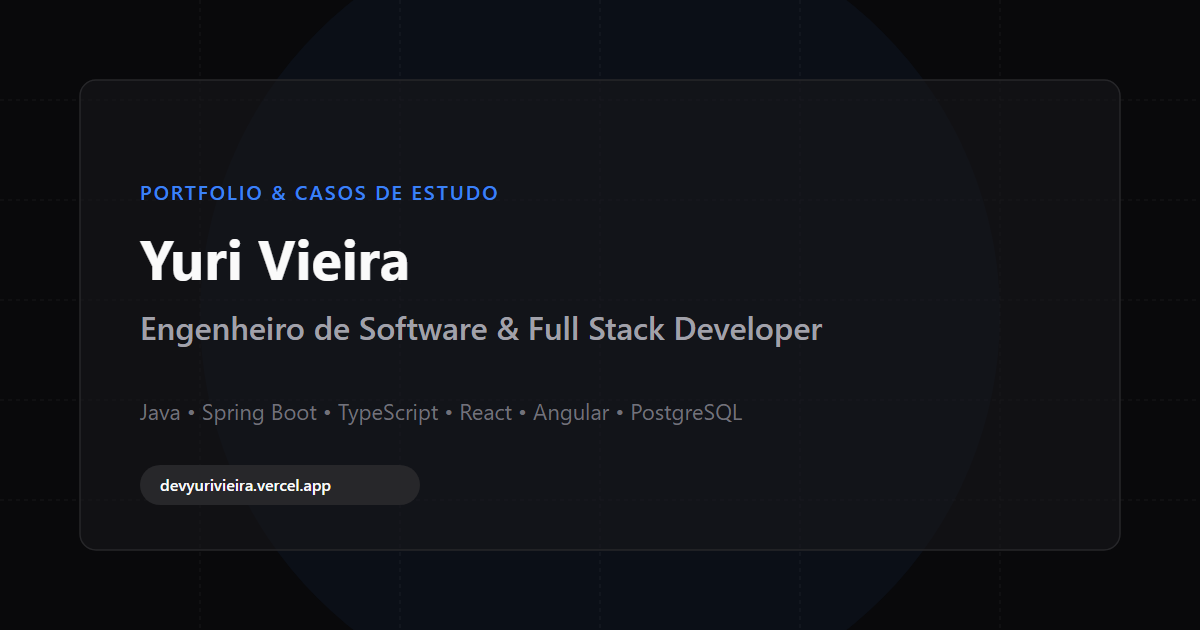
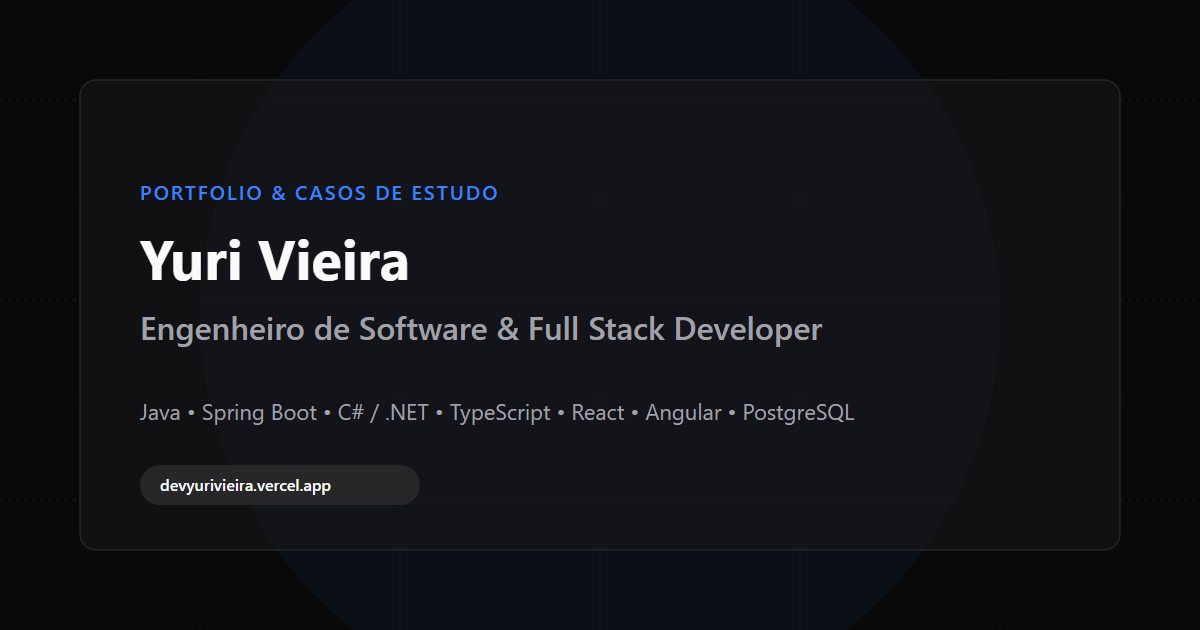
chore(seo,docs,e2e): align metadata, OG assets, visual snapshots and CI pipeline

Changed region(s): [[0.1233, 0.6333, 0.7092, 0.6937]]

diff --git a/e2e/portfolio.spec.ts b/e2e/portfolio.spec.ts
@@ -4,7 +4,7 @@ import AxeBuilder from '@axe-core/playwright';
 test.describe('Yuri Vieira Portfolio - Comprehensive E2E Test Suite', () => {
 
   test.beforeEach(async ({ page }) => {
-    await page.goto('/');
+    await page.goto('/?lang=pt-BR');
   });
 
   test.describe('1. SEO Metadata, Open Graph & Structured Data', () => {
@@ -111,7 +111,8 @@ test.describe('Yuri Vieira Portfolio - Comprehensive E2E Test Suite', () => {
 
   test.describe('4. Projects Section & Confidential Case Study', () => {
     test('should handle progressive project expansion and collapse (5 -> 7 -> Total -> 5)', async ({ page }) => {
-      const projectsSection = page.locator('#projects');
+      const projectsSection = page.locator('app-projects #projects');
+      await expect(projectsSection).toBeAttached({ timeout: 10000 });
       await projectsSection.scrollIntoViewIfNeeded();
 
       const projectCards = page.locator('#projects .projects__card');
@@ -132,7 +133,8 @@ test.describe('Yuri Vieira Portfolio - Comprehensive E2E Test Suite', () => {
     });
 
     test('should render ZEISS confidential project card with lock badge and NDA disclaimer', async ({ page }) => {
-      const projectsSection = page.locator('#projects');
+      const projectsSection = page.locator('app-projects #projects');
+      await expect(projectsSection).toBeAttached({ timeout: 10000 });
       await projectsSection.scrollIntoViewIfNeeded();
 
       const confidentialCard = page.locator('.projects__card--confidential');
@@ -144,6 +146,21 @@ test.describe('Yuri Vieira Portfolio - Comprehensive E2E Test Suite', () => {
 
       const ndaText = confidentialCard.locator('.projects__confidential-text');
       await expect(ndaText).toHaveText(/NDA|Serratec/i);
+    });
+
+    test('should filter projects by engineering track and support direct case-study deep links', async ({ page }) => {
+      const projectsSection = page.locator('app-projects #projects');
+      await expect(projectsSection).toBeAttached({ timeout: 10000 });
+      await projectsSection.scrollIntoViewIfNeeded();
+
+      const backendFilter = page.locator('#projects .projects__filter-btn').nth(2);
+      await backendFilter.click();
+      await expect(page.locator('#projects .projects__card')).toHaveCount(4);
+
+      await page.goto('/projects/fleetops-api?lang=en');
+      const modal = page.locator('app-case-study-modal .case-modal');
+      await expect(modal).toBeVisible({ timeout: 10000 });
+      await expect(modal.locator('.case-modal__title')).toContainText('FleetOps API');
     });
   });
 
@@ -166,7 +183,9 @@ test.describe('Yuri Vieira Portfolio - Comprehensive E2E Test Suite', () => {
       await expect(page.locator('#experience')).toBeAttached();
       await page.evaluate(() => document.getElementById('experience')?.scrollIntoView({ behavior: 'instant' }));
 
-      const focusCards = page.locator('#experience .experience__focus-card');
+      const focusCards = page.locator('app-experience #experience .experience__focus-card');
+      await expect(focusCards.first()).toBeAttached({ timeout: 10000 });
+      await focusCards.first().scrollIntoViewIfNeeded();
       await expect(focusCards.first()).toBeVisible({ timeout: 10000 });
       const count = await focusCards.count();
       expect(count).toBeGreaterThanOrEqual(4);
@@ -185,11 +204,12 @@ test.describe('Yuri Vieira Portfolio - Comprehensive E2E Test Suite', () => {
 
   test.describe('6. AI Experience Section & Interactive Controls', () => {
     test('should render AI manifesto, feature cards and zoom toolbar (on desktop)', async ({ page, isMobile }) => {
-      const aiSection = page.locator('#ai-experience');
-      await aiSection.scrollIntoViewIfNeeded();
+      const aiSection = page.locator('app-ai-experience #ai-experience');
+      await expect(aiSection).toBeAttached({ timeout: 10000 });
 
       const badge = page.locator('#ai-experience .ai__badge');
-      await expect(badge).toBeVisible();
+      await badge.scrollIntoViewIfNeeded();
+      await expect(badge).toBeVisible({ timeout: 10000 });
 
       const featureCards = page.locator('#ai-experience .ai__feature-card');
       const count = await featureCards.count();
@@ -197,6 +217,7 @@ test.describe('Yuri Vieira Portfolio - Comprehensive E2E Test Suite', () => {
 
       if (!isMobile) {
         const zoomToolbar = page.locator('#ai-experience .ai__zoom-toolbar');
+        await zoomToolbar.scrollIntoViewIfNeeded();
         await expect(zoomToolbar).toBeVisible();
 
         const zoomButtons = zoomToolbar.locator('button');
@@ -210,7 +231,9 @@ test.describe('Yuri Vieira Portfolio - Comprehensive E2E Test Suite', () => {
     test('should handle copy email action with visual state feedback', async ({ page, context }) => {
       await context.grantPermissions(['clipboard-read', 'clipboard-write'], { origin: 'http://localhost:4200' });
 
-      await page.locator('#contact').scrollIntoViewIfNeeded();
+      const contactSection = page.locator('app-contact #contact');
+      await expect(contactSection).toBeAttached({ timeout: 10000 });
+      await contactSection.scrollIntoViewIfNeeded();
 
       const copyBtnHost = page.locator('#contact app-button').nth(1);
       const copyButton = copyBtnHost.locator('button');
@@ -221,7 +244,8 @@ test.describe('Yuri Vieira Portfolio - Comprehensive E2E Test Suite', () => {
     });
 
     test('should render direct send email action button', async ({ page }) => {
-      const contactSection = page.locator('#contact');
+      const contactSection = page.locator('app-contact #contact');
+      await expect(contactSection).toBeAttached({ timeout: 10000 });
       await contactSection.scrollIntoViewIfNeeded();
 
       const sendBtn = page.locator('#contact app-button').nth(0).locator('a, button');

diff --git a/src/app/core/services/seo.service.ts b/src/app/core/services/seo.service.ts
@@ -23,27 +23,27 @@ const SEO_I18N: Record<string, SeoDefaults> = {
   'pt-BR': {
     title: 'Yuri Vieira | Engenheiro de Software | Full Stack Developer',
     description:
-      'Portfolio de Yuri Vieira | Engenheiro de Software & Desenvolvedor Full Stack especializado em Java, Spring Boot, TypeScript, React e Angular. Casos de estudo em arquitetura limpa, sistemas distribuídos e alta performance.',
+      'Portfolio de Yuri Vieira | Engenheiro de Software & Desenvolvedor Full Stack especializado em Java, Spring Boot, C#, .NET, TypeScript, React e Angular. Casos de estudo em arquitetura limpa, sistemas distribuídos e alta performance.',
     keywords:
-      'Yuri Vieira, Yuri Vieira Engenheiro de Software, Software Engineer, Desenvolvedor Full Stack, Java Developer, React Developer, Angular, Spring Boot, PostgreSQL, TypeScript, Portfolio',
+      'Yuri Vieira, Yuri Vieira Engenheiro de Software, Software Engineer, Desenvolvedor Full Stack, Java Developer, .NET Developer, C#, ASP.NET Core, React Developer, Angular, Spring Boot, PostgreSQL, TypeScript, Portfolio',
     ogLocale: 'pt_BR',
     htmlLang: 'pt-BR',
   },
   en: {
     title: 'Yuri Vieira | Software Engineer | Full Stack Developer',
     description:
-      "Yuri Vieira's Portfolio | Software Engineer & Full Stack Developer specialized in Java, Spring Boot, TypeScript, React, and Angular. Open to remote software engineering roles in Canada, Europe, USA, and Brazil.",
+      "Yuri Vieira's Portfolio | Software Engineer & Full Stack Developer specialized in Java, Spring Boot, C#, .NET, TypeScript, React, and Angular. Open to remote software engineering roles in Canada, Europe, USA, and Brazil.",
     keywords:
-      'Yuri Vieira, Software Engineer, Full Stack Developer, Java Developer, Spring Boot, React Developer, Angular, TypeScript, PostgreSQL, Remote Software Engineer, Remote Developer Canada, Remote Developer Europe, B2B Contractor, Back-End Instructor, Portfolio',
+      'Yuri Vieira, Software Engineer, Full Stack Developer, Java Developer, Spring Boot, .NET Developer, C#, ASP.NET Core, React Developer, Angular, TypeScript, PostgreSQL, Remote Software Engineer, Remote Developer Canada, Remote Developer Europe, B2B Contractor, Portfolio',
     ogLocale: 'en_US',
     htmlLang: 'en',
   },
   es: {
     title: 'Yuri Vieira | Ingeniero de Software | Desarrollador Full Stack',
     description:
-      'Portafolio de Yuri Vieira | Ingeniero de Software & Desarrollador Full Stack especializado en Java, Spring Boot, TypeScript, React y Angular. Disponible para roles remotos de ingeniería de software en Canadá, Europa, EE.UU. y Brasil.',
+      'Portafolio de Yuri Vieira | Ingeniero de Software & Desarrollador Full Stack especializado en Java, Spring Boot, C#, .NET, TypeScript, React y Angular. Disponible para roles remotos de ingeniería de software en Canadá, Europa, EE.UU. y Brasil.',
     keywords:
-      'Yuri Vieira, Ingeniero de Software, Desarrollador Full Stack, Java Developer, React Developer, Angular, Spring Boot, PostgreSQL, TypeScript, Ingeniero Remoto, Desarrollador Remoto Canadá, Desarrollador Remoto Europa, Contratista B2B, Instructor Back-End, Portafolio',
+      'Yuri Vieira, Ingeniero de Software, Desarrollador Full Stack, Java Developer, .NET Developer, C#, React Developer, Angular, Spring Boot, PostgreSQL, TypeScript, Ingeniero Remoto, Desarrollador Remoto Canadá, Desarrollador Remoto Europa, Contratista B2B, Portafolio',
     ogLocale: 'es_ES',
     htmlLang: 'es',
   },

diff --git a/src/index.html b/src/index.html
@@ -14,12 +14,11 @@
   <meta name="robots" content="index, follow, max-image-preview:large, max-snippet:-1, max-video-preview:-1">
   <link rel="canonical" href="https://devyurivieira.vercel.app/">
 
-  <link rel="alternate" hreflang="pt-BR" href="https://devyurivieira.vercel.app/">
-  <link rel="alternate" hreflang="en" href="https://devyurivieira.vercel.app/">
-  <link rel="alternate" hreflang="es" href="https://devyurivieira.vercel.app/">
+  <link rel="alternate" hreflang="pt-BR" href="https://devyurivieira.vercel.app/?lang=pt-BR">
+  <link rel="alternate" hreflang="en" href="https://devyurivieira.vercel.app/?lang=en">
+  <link rel="alternate" hreflang="es" href="https://devyurivieira.vercel.app/?lang=es">
   <link rel="alternate" hreflang="x-default" href="https://devyurivieira.vercel.app/">
 
-  <!-- Machine-Readable LLM Context (llmstxt.org specification) -->
   <link rel="help" type="text/plain" href="https://devyurivieira.vercel.app/llms.txt" title="LLMs.txt Context">
   <link rel="alternate" type="text/plain" href="https://devyurivieira.vercel.app/llms.txt" title="LLM Context">
 
@@ -80,12 +79,6 @@
           "https://linkedin.com/in/yuri-vieira-teixeira",
           "https://devyurivieira.vercel.app/"
         ],
-        "worksFor": {
-          "@type": "EducationalOrganization",
-          "name": "SENAI / FAETEC",
-          "description": "National Service for Industrial Training / Vocational Technology Education (Contrato Determinado concluído, Ago-Out 2026)",
-          "url": "https://www.firjan.com.br/senai/"
-        },
         "alumniOf": [
           {
             "@type": "CollegeOrUniversity",
@@ -179,11 +172,16 @@
           "Java",
           "Spring Boot",
           "Spring Security",
+          "C#",
+          ".NET 10",
+          "ASP.NET Core",
           "TypeScript",
           "React",
           "React Native",
           "Angular",
           "PostgreSQL",
+          "RabbitMQ",
+          "OpenTelemetry",
           "Node.js",
           "Python",
           "Django",
@@ -193,7 +191,6 @@
           "Automated Testing",
           "Vitest",
           "Playwright",
-          "Cypress",
           "Docker",
           "CI/CD"
         ]
@@ -285,7 +282,7 @@
         "author": {
           "@id": "https://devyurivieira.vercel.app/#person"
         },
-        "description": "Production portfolio engineered with Angular 22 Signals, WebGL/Three.js GPU shaders, and 213 automated tests."
+        "description": "Production portfolio engineered with Angular 22 Signals, WebGL/Three.js GPU shaders, and 160+ automated Vitest unit tests plus Playwright E2E and Axe-core WCAG audits."
       }
     ]
   }

diff --git a/src/app/layout/components/adr-modal/adr-modal.data.ts b/src/app/layout/components/adr-modal/adr-modal.data.ts
@@ -196,7 +196,7 @@ export const PORTFOLIO_ADRS_I18N: Record<SupportedLang, readonly AdrRecord[]> = 
         'Adotar o Vitest com execução ESM pura, cobrindo lógica de domínio, grafos de signals reativos, interações de acessibilidade (foco, regiões ARIA live) e catálogos de internacionalização com zero testes instáveis (flaky).',
       consequences: {
         positive: [
-          'Ciclos de execução de testes sub-segundo em mais de 80 suítes unitárias completas',
+          'Ciclos rápidos de execução em 31 suítes unitárias (168 testes automatizados)',
           'Taxa de 100% de aprovação nos testes automatizados verificada antes de qualquer deploy',
           'Isolamento estrito de APIs de navegador (PerformanceObserver, WebGL, ServiceWorker)',
           'Feedback imediato para o desenvolvedor durante pair programming local e refatoração',
@@ -348,7 +348,7 @@ export const PORTFOLIO_ADRS_I18N: Record<SupportedLang, readonly AdrRecord[]> = 
         'Enforce Vitest with pure ESM execution, covering domain logic, reactive signal graphs, accessibility interactions (keyboard traps, ARIA live regions), and internationalization catalogs with zero flaky tests.',
       consequences: {
         positive: [
-          'Sub-second test execution cycle across 80+ comprehensive unit suites',
+          'Fast feedback loop across 31 comprehensive unit test suites (168 automated tests)',
           '100% automated test pass rate verified before every deployment gate',
           'Strict isolation of browser APIs (PerformanceObserver, WebGL, ServiceWorker)',
           'Immediate developer feedback loop during local pair-programming and refactoring',
@@ -500,7 +500,7 @@ export const PORTFOLIO_ADRS_I18N: Record<SupportedLang, readonly AdrRecord[]> = 
         'Aplicar Vitest con ejecución ESM pura, cubriendo lógica de dominio, grafos de signals reactivos, interacciones de accesibilidad (foco, regiones ARIA live) e internacionalización con cero pruebas inestables.',
       consequences: {
         positive: [
-          'Ciclo de ejecución de pruebas inferior a un segundo en más de 80 suites completas',
+          'Ciclo rápido de ejecución en 31 suites unitarias completas (168 pruebas automatizadas)',
           'Tasa de aprobación del 100% en pruebas automatizadas antes de cada despliegue',
           'Aislamiento estricto de APIs de navegador (PerformanceObserver, WebGL, ServiceWorker)',
           'Feedback inmediato durante pair programming y refactorización local',

diff --git a/e2e/visual-regression.spec.ts b/e2e/visual-regression.spec.ts
@@ -3,7 +3,7 @@ import { test, expect } from '@playwright/test';
 test.describe('Visual Regression Suite: Snapshot & Pixel Comparison', () => {
 
   test.beforeEach(async ({ page }) => {
-    await page.goto('/', { waitUntil: 'networkidle' });
+    await page.goto('/?lang=pt-BR', { waitUntil: 'networkidle' });
   });
 
   test('should verify Header component visual snapshot', async ({ page }) => {

diff --git a/README.md b/README.md
@@ -7,17 +7,17 @@
 ![Three.js](https://img.shields.io/badge/Three.js-0.185-000000?style=for-the-badge&logo=three.js&logoColor=white)
 ![A11y](https://img.shields.io/badge/A11y-WCAG_AAA-00E5FF?style=for-the-badge&logo=w3c&logoColor=black)
 ![SCSS](https://img.shields.io/badge/SCSS-Design_System-CC6699?style=for-the-badge&logo=sass&logoColor=white)
-![Tests](https://img.shields.io/badge/Tests-213_Passed-10B981?style=for-the-badge&logo=vitest&logoColor=white)
-![Vitest](https://img.shields.io/badge/Vitest-158_Unit_Specs-6E9F18?style=for-the-badge&logo=vitest&logoColor=white)
+![Tests](https://img.shields.io/badge/Tests-223_Passed-10B981?style=for-the-badge&logo=vitest&logoColor=white)
+![Vitest](https://img.shields.io/badge/Vitest-168_Unit_Specs-6E9F18?style=for-the-badge&logo=vitest&logoColor=white)
 ![Playwright](https://img.shields.io/badge/Playwright-1.62-2EAD33?style=for-the-badge&logo=playwright&logoColor=white)
 ![Cypress](https://img.shields.io/badge/Cypress-15.20-17202C?style=for-the-badge&logo=cypress&logoColor=white)
 ![Vercel](https://img.shields.io/badge/Vercel-Deployed-000000?style=for-the-badge&logo=vercel&logoColor=white)
 
-**PT-BR:** Aplicação web frontend desenvolvida em Angular 22 com Signals, gráficos interativos Three.js (WebGL), Registros de Decisão de Arquitetura (ADRs), console interativo de telemetria RUM e eventos de conversão em tempo real, motor avançado de acessibilidade (WCAG 2.2 AAA & VLibras com 21 ferramentas assistivas), suporte trilíngue (i18n - PT-BR, EN, ES), SEO dinâmico e suíte de testes automatizados (158 testes Vitest).  
-*Slogan: Design system proprietário, acessibilidade universal com VLibras e 21 recursos assistivos, arquitetura documentada com ADRs, console de telemetria em tempo real e suíte de testes automatizados.*
+**PT-BR:** Aplicação web frontend desenvolvida em Angular 22 com Signals, Command Palette (`Ctrl+K`), gráficos interativos Three.js (WebGL), Registros de Decisão de Arquitetura (ADRs), inspetor de métricas RUM e Core Web Vitals, motor avançado de acessibilidade (WCAG 2.2 AAA & VLibras com 21 ferramentas assistivas), suporte trilíngue com auto-detecção de idioma (PT-BR, EN, ES), deep links `/projects/:projectId`, SEO dinâmico e suíte de testes automatizados (168 testes Vitest + Playwright + Cypress).  
+*Slogan: Design system proprietário, acessibilidade universal com VLibras e 21 recursos assistivos, arquitetura documentada com ADRs, Command Palette `Ctrl+K`, telemetria RUM nativa e suíte de testes automatizados.*
 
-**EN:** Frontend web application built with Angular 22 Signals, Three.js (WebGL) interactive visuals, Architectural Decision Records (ADRs), interactive live RUM & event tracking telemetry HUD, universal accessibility engine (WCAG 2.2 AAA & VLibras with 21 assistive features), dynamic tri-lingual i18n (PT-BR, EN, ES), SEO engine, and automated testing suite (158 Vitest tests).  
-*Slogan: Custom design system, universal accessibility with VLibras and 21 assistive features, documented architecture with ADRs, real-time telemetry HUD console, and automated testing pipeline.*
+**EN:** Frontend web application built with Angular 22 Signals, Command Palette (`Ctrl+K`), Three.js (WebGL) interactive visuals, Architectural Decision Records (ADRs), live RUM & Core Web Vitals inspector, universal accessibility engine (WCAG 2.2 AAA & VLibras with 21 assistive features), auto-detected tri-lingual i18n (PT-BR, EN, ES), shareable `/projects/:projectId` deep links, dynamic SEO engine, and automated testing suite (168 Vitest tests + Playwright + Cypress).  
+*Slogan: Custom design system, universal accessibility with VLibras and 21 assistive features, documented architecture with ADRs, `Ctrl+K` Command Palette, native RUM telemetry, and automated testing pipeline.*
 
 ---
 
@@ -76,9 +76,9 @@ Key Engineering Highlights:
 1. **Modern Angular Architecture**: Uses Angular Standalone Components, native Signals (`signal`, `computed`), and `ChangeDetectionStrategy.OnPush` across all views for low memory footprint and fast rendering.
 2. **GPU Visual FX**: Interactive 3D particle visuals powered by **Three.js** (`NeuralCanvasComponent` and `HeroParticlesVisual`), including raycasting mouse displacement, floating glassmorphic zoom controls (`+`, `-`, `Reset`, `Focus`), and automatic responsive fallbacks on mobile screens (<768px).
 3. **Universal Accessibility (WCAG 2.2 AAA & VLibras)**: Built-in assistive features drawer with 21 assistive tools across 5 domains: Text-to-Speech (TTS), on-demand Brazilian Sign Language (VLibras v7), font scaling (+15%, +30%), dyslexia typography (OpenDyslexic), line height (2.2x), text spacing, left-alignment, bionic reading, high contrast (WCAG AAA), monochrome mode, color inversion, low saturation, media hiding, SVG colorblind filters (Protanopia, Deuteranopia, Tritanopia), animation pausing, cursor reading guide, large cursor (36px), link highlighting, and heading highlighting.
-4. **16 Detailed Engineering Case Studies**: Highlights real-world projects, architecture trade-offs, technical decisions, FleetOps API (.NET 10 / C# 14 / PostgreSQL 18 / RabbitMQ / 300 tests) reference study modal, and a dedicated ZEISS NDA confidential project card with lock badge 🔒.
-5. **Triple-Layer QA Architecture**: 213 automated tests (100% pass rate) combining unit tests (**Vitest** - 158 specs across 29 test suites), multi-browser/mobile E2E and WCAG 2.1 AA accessibility tests (**Playwright + Axe-Core** - 38 specs), and user journey E2E verification (**Cypress** - 17 specs).
-6. **Architectural Decision Records (ADRs) & Native RUM Telemetry**: 5 formal engineering records (ADR-001 through ADR-005) in English detailing architecture invariants, paired with a zero-dependency browser-native Real User Monitoring service (`PerformanceObserver` tracking Core Web Vitals) and enterprise HTTP security hardening (`vercel.json`).
+4. **16 Engineering Case Studies with Flagship Priority & Track Filters**: Showcases 16 engineering projects prioritized by impact (ZEISS NDA 🔒, FleetOps API in .NET 10, FarmFlow Java 21 + Expo Offline-First, and Work-Fitness 100/100 Lighthouse at the top) with SVG architecture previews, track filters (`All`, `Full-Stack`, `Back-End`, `Front-End & Mobile`), progressive expansion (`5 → 7 → 16 → 5`), and shareable `/projects/:projectId` deep links.
+5. **Triple-Layer QA Architecture**: 223+ automated tests (100% pass rate) combining unit tests (**Vitest** - 168 specs across 31 test suites), multi-browser/mobile E2E and WCAG 2.1 AA accessibility tests (**Playwright + Axe-Core**), and user journey E2E verification (**Cypress** - 17 specs).
+6. **Command Palette (`Ctrl+K`), ADRs & Native RUM Telemetry**: Keyboard-driven `Ctrl+K` / `⌘K` quick navigation palette, 5 formal engineering records (ADR-001 through ADR-005) in PT-BR/EN/ES, browser-native Core Web Vitals inspector (`PerformanceObserver`), and enterprise HTTP security hardening (`vercel.json`).
 
 ---
 
@@ -95,9 +95,9 @@ Key Engineering Highlights:
 - **Control Toolbar**: Glassmorphic floating UI offering Zoom In (`+`), Zoom Out (`-`), Reset Camera, and Target Focus controls.
 - **Mobile Fallback**: WebGL canvas automatically hidden on viewports under `768px` to preserve mobile battery life and maintain 60 FPS scrolling.
 
-### 3. Case Studies & Progressive Grid Expansion
-- **16 Case Studies**: Structured breakdown featuring Challenge, Solution, Architecture Decisions, Technical Highlights, Results, and Tech Stack badges. Includes the FleetOps API distributed engine study with interactive technical dossier.
-- **3-Stage Progressive Expansion**: Initial 5 featured items → 7 expanded items → All 16 projects → Smooth scroll collapse back to 5 items.
+### 3. Case Studies, Track Filters & Shareable Deep Links
+- **16 Engineering Case Studies**: Prioritized by real-world impact, featuring SVG architectural previews, Challenge, Solution, Architecture Decisions, Results, interactive technical dossiers (ZEISS, FleetOps API, FarmFlow), and one-click shareable `/projects/:projectId` URLs.
+- **Track Filters & Progressive Expansion**: Filter directly by `All`, `Full-Stack`, `Back-End`, or `Front-End & Mobile`, plus progressive expansion (`5 → 7 → 16 → 5`) with smooth scroll collapse.
 
 ### 4. ZEISS Confidential Project Card & Legal NDA Disclaimer
 - **Residency Project Presentation**: Highlights enterprise software developed for **ZEISS** during the Serratec TIC Residency.
@@ -466,9 +466,9 @@ Destaques de Engenharia:
 1. **Arquitetura Angular Moderna**: Componentes Standalone, Signals nativos (`signal`, `computed`) e `ChangeDetectionStrategy.OnPush` em todas as visões para alta velocidade de renderização e baixo uso de memória.
 2. **Efeitos Visuais Acelerados por GPU**: Shaders de partículas WebGL 3D em **Three.js** (`NeuralCanvasComponent` e `HeroParticlesVisual`), com interatividade por cursor, barra flutuante de zoom (`+`, `-`, `Reset`, `Foco`) e fallback automático para telas móveis (<768px).
 3. **Acessibilidade Universal (WCAG 2.2 AAA & VLibras)**: Gaveta modal assistiva nativa com 21 ferramentas em 5 domínios: Leitura em Voz Alta (TTS), tradução oficial em Libras (VLibras v7), escala de fonte (+15%, +30%), fonte para dislexia (OpenDyslexic), espaçamento de linhas (2.2x), espaçamento de texto, alinhamento à esquerda, leitura biônica, alto contraste (WCAG AAA), modo monocromático, inversão de cores, baixa saturação, ocultar imagens/mídias, filtros de daltonismo (Protanopia, Deuteranopia, Tritanopia), pausa de animações, régua de leitura, cursor ampliado (36px), destaque de links e títulos.
-4. **16 Casos de Estudo de Engenharia**: Apresentação de projetos com trade-offs de arquitetura, decisões técnicas, estudo de referência do FleetOps API (.NET 10 / C# 14 / PostgreSQL 18 / RabbitMQ / 300 testes) com modal interativo e card de projeto confidencial da ZEISS com selo de bloqueio 🔒.
-5. **Garantia de Qualidade em 3 Camadas**: 213 testes automatizados (100% de aprovação) unindo testes unitários (**Vitest** - 158 specs em 29 suítes), testes E2E e de acessibilidade WCAG 2.1 AA (**Playwright + Axe-Core** - 38 specs) e validação de fluxos E2E (**Cypress** - 17 specs).
-6. **Registros de Decisão de Arquitetura (ADRs) & Telemetria RUM**: 5 registros formais (ADR-001 a ADR-005) em inglês detalhando invariantes de arquitetura, aliados a um serviço nativo de monitoramento de performance em tempo real (`PerformanceObserver` para Core Web Vitals) e segurança HTTP enterprise (`vercel.json`).
+4. **16 Casos de Estudo Priorizados & Filtros por Trilha**: Apresentação dos 16 projetos ordenados por impacto (ZEISS NDA 🔒, FleetOps API .NET 10, FarmFlow Java 21 + Mobile Offline-First e Work-Fitness 100/100 Lighthouse no topo) com previews visuais SVG, filtros por especialidade (`Todos`, `Full-Stack`, `Back-End`, `Front-End & Mobile`), expansão progressiva (`5 → 7 → 16 → 5`) e links diretos compartilháveis `/projects/:projectId`.
+5. **Garantia de Qualidade em 3 Camadas**: 223+ testes automatizados (100% de aprovação) unindo testes unitários (**Vitest** - 168 specs em 31 suítes), testes E2E e de acessibilidade WCAG 2.1 AA (**Playwright + Axe-Core**) e validação de fluxos E2E (**Cypress** - 17 specs).
+6. **Command Palette (`Ctrl+K`), ADRs & Telemetria RUM**: Paleta rápida `Ctrl+K` / `⌘K` para navegação, CVs e estudos de caso, 5 registros formais (ADR-001 a ADR-005) em PT-BR/EN/ES, inspetor nativo de Core Web Vitals (`PerformanceObserver`) e segurança HTTP enterprise (`vercel.json`).
 
 ---
 
@@ -485,9 +485,9 @@ Destaques de Engenharia:
 - **Barra Flutuante de Controle de Zoom**: Toolbar com efeito de vidro (glassmorphism) com botões de Zoom In (`+`), Zoom Out (`-`), Reset de Câmera e Foco Centralizado.
 - **Desempenho Adaptativo**: O canvas WebGL é ocultado automaticamente em telas menores que `768px` para preservar a bateria e a fluidez em dispositivos móveis.
 
-### 3. Casos de Estudo Corporativos & Grade Progressiva
-- **16 Casos de Estudo de Engenharia**: Estruturados com Desafio, Solução, Decisões de Arquitetura, Destaques Técnicos, Resultados e Badges de Tecnologias. Inclui o estudo do FleetOps API com dossiê técnico interativo.
-- **Grade Progressiva em 3 Etapas**: Exibição inicial de 5 projetos em destaque → Expansão para 7 projetos → Expansão completa para 16 projetos → Recolhimento com rolagem suave de volta para 5 itens.
+### 3. Casos de Estudo, Filtros & Deep Links
+- **16 Casos de Estudo de Engenharia**: Priorizados por impacto real, com previews arquiteturais em SVG, Desafio, Solução, Decisões de Arquitetura, Resultados, dossiês técnicos interativos (ZEISS, FleetOps API, FarmFlow) e links diretos compartilháveis `/projects/:projectId`.
+- **Filtros por Trilha & Grade Progressiva**: Filtre por `Todos`, `Full-Stack`, `Back-End` ou `Front-End & Mobile`, além de expansão progressiva (`5 → 7 → 16 → 5`) com recolhimento suave.
 
 ### 4. Card de Projeto Confidencial ZEISS & Tratamento de NDA
 - **Apresentação de Projeto de Residência**: Exibe a aplicação desenvolvida para a **ZEISS** dentro do programa de Residência Tecnológica Serratec TIC.
